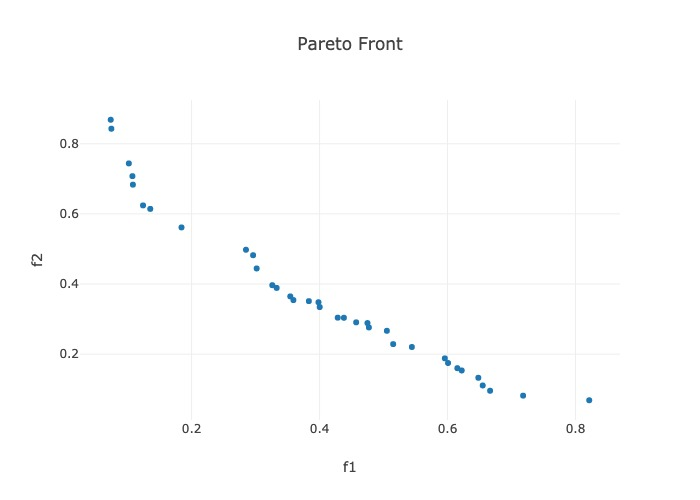
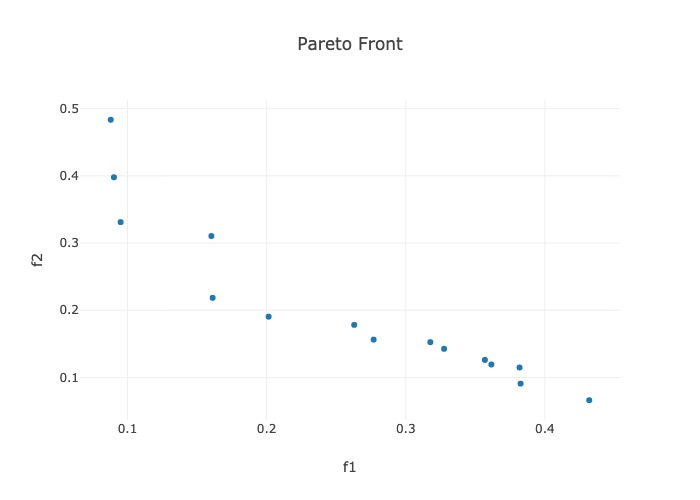
played with budgets and added to faqs

diff --git a/examples/local_method.py b/examples/local_method.py
@@ -13,7 +13,7 @@ np.random.seed(0)
 
 # Switch to using the TR_LBFGSB solver to solve surrogate problems in
 # a trust region with multi-start LBFGSB
-my_moop = MOOP(TR_LBFGSB, hyperparams={'opt_budget': 200})
+my_moop = MOOP(TR_LBFGSB)
 
 # Massive 50 variable black-box optimization problem
 # Completely hopeless for methods that rely on global models
@@ -30,8 +30,8 @@ def sim_func(x):
     # 25 variables that don't affect tradeoff, but need to be minimized
     tail = np.linalg.norm(xx[25:] - 0.5) ** 2 / 25
     # 25 variables that do affect tradeoff
-    s1 = np.linalg.norm(xx[:25]) ** 2 / 25 + tail
-    s2 = np.linalg.norm(xx[:25] - 1) ** 2 / 25 + tail
+    s1 = np.linalg.norm(xx[:25] - 0.2) ** 2 / 25 + tail
+    s2 = np.linalg.norm(xx[:25] - 0.8) ** 2 / 25 + tail
     return np.array([s1, s2])
 
 # Using a local surrogate to dodge the curse of dimensionality
@@ -71,7 +71,7 @@ logging.basicConfig(level=logging.INFO,
                     format='%(asctime)s %(levelname)-8s %(message)s',
                     datefmt='%Y-%m-%d %H:%M:%S')
 
-# 200 iterations * 4 acquisitions per iteration -- this could take a few mins
+# 100 iterations * 4 acquisitions per iteration -- this could take a few mins
 my_moop.solve(100)
 results = my_moop.getPF()
 

diff --git a/docs/faqs.rst b/docs/faqs.rst
@@ -38,10 +38,14 @@ Frequently asked questions:
 
     - A: The answer is problem dependent, but these are our recommendations:
 
-       - For most of our solver settings (there are several notable
-         exceptions, such as our Bayesian optimization implementations)
+       - For most of our solver settings
          ParMOO performs pure "exploitation" after the initial search,
          so you can think of ``B_s`` as the "exploration" parameter.
+         (There are several notable
+         exceptions, such as if you use the
+         :class:`EI_RandomConstraint <acquisitions.epsilon_constraint.EI_RandomConstraint>`
+         acquisition function, which we generally do not recommend due to its
+         computational expense).
          If your problem is very
          smooth or doesn't have many local minima, then you can get away with
          a small value of ``B_s``. If your problem is nonsmooth or highly
@@ -94,6 +98,9 @@ Frequently asked questions:
       generally only grow linearly in the dimension.
       You will not get any global convergence guarantees, but in many
       cases, you will still be able to solve your problem.
+      Check out our
+      :ref:`High-dimensional multiobjective optimization tutorial <high_d_ex>`
+      to learn more.
 
  - Q: How can I determine whether my problem was solved by ParMOO?
 
@@ -124,6 +131,25 @@ Frequently asked questions:
          to compute when you have a large number of objectives. Therefore, we
          do not have a hypervolume metric calculator available in ParMOO at
          this time, but we will add it in the future.
+
+ - Q: Why are the iteration costs (time spent generating a batch) so high?
+
+    - A: The majority of ParMOO's overhead comes from fitting the surrogate
+      models and solving the scalarized surrogate problems. If you followed
+      the quickstart_, then the default method for surrogate modeling
+      was to fit a Gaussian process. For numerical stability reasons,
+      we fit our Gaussian processes via a *symmetric-eigensolve*,
+      which is not cheap. Then you may have to evaluate the Gaussian
+      process thousands of times while solving the surrogate problem.
+      All of this expense adds up, especially if you are using a large
+      total budget, since the cost of fitting Gaussian processes grows
+      cubically with the number of data points.
+      One solution is to switch to using a
+      :class:`LocalGaussRBF <surrogates.gaussian_proc.LocalGaussRBF>`
+      surrogate, which does not use the entire database when fitting
+      surrogates, and therefore is more scalable for handling large budgets.
+      See our :ref:`tutorial on local methods <high_d_ex>`
+      for an example.
 
  - Q: Surrogate models, acquisition functions, search techniques, and
    optimization solvers -- how do I know which ones to pick?

diff --git a/docs/tutorials/local_method.rst b/docs/tutorials/local_method.rst
@@ -27,6 +27,20 @@ To quote our FAQ_:
    :class:`LBFGSB <optimizers.lbfgsb.LBFGSB>` optimizer, then you
    will also need to switch to the
    :class:`TR_LBFGSB <optimizers.lbfgsb.TR_LBFGSB>` optimizer.
+ - The majority of ParMOO's overhead comes from fitting the surrogate
+   models and solving the scalarized surrogate problems. If you followed
+   the quickstart_, then the default method for surrogate modeling
+   was to fit a Gaussian process. For numerical stability reasons,
+   we fit our Gaussian processes via a *symmetric-eigensolve*,
+   which is not cheap. Then you may have to evaluate the Gaussian
+   process thousands of times while solving the surrogate problem.
+   All of this expense adds up, especially if you are using a large
+   total budget, since the cost of fitting Gaussian processes grows
+   cubically with the number of data points.
+   One solution is to switch to using a
+   :class:`LocalGaussRBF <surrogates.gaussian_proc.LocalGaussRBF>`
+   surrogate, which does not use the entire database when fitting
+   surrogates, and therefore is more scalable for handling large budgets.
 
 Going off a modification to the quickstart_, this will produce the
 following script. We also have a similar example in the solver_farm_.
